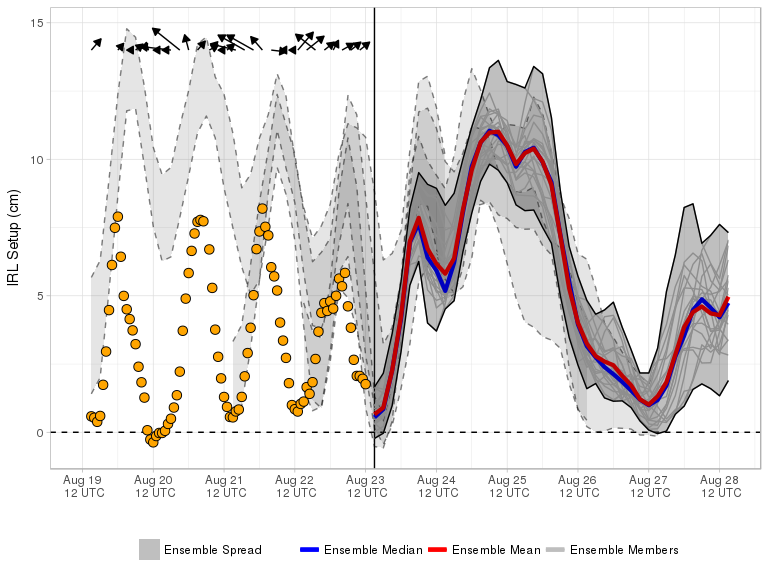
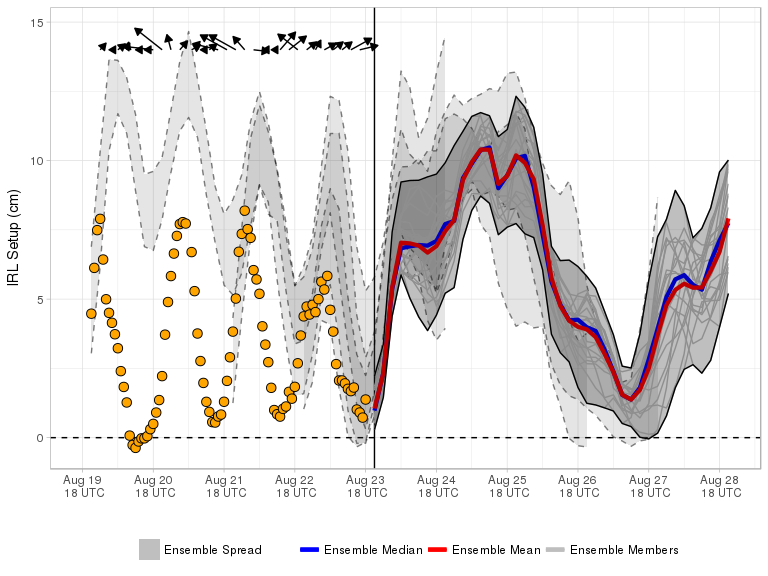
Forecast Update

Changed region(s): [[0.0938, 0.0312, 0.9688, 0.7812], [0.0938, 0.7188, 0.1562, 0.75], [0.0312, 0.5, 0.0625, 0.5312]]

diff --git a/docs/index.md b/docs/index.md
@@ -1,9 +1,9 @@
-Current Forecast 2018-08-23, Cycle 06 UTC
+Current Forecast 2018-08-23, Cycle 12 UTC
 -----------------------------------------
 
 [![](img/raw_setup.png)](https://fit-winds.github.io/IRLSetup/img/raw_setup.png)
 
-> Forecast valid 2018-08-23 08:33:22.
+> Forecast valid 2018-08-23 14:35:12.
 
 Explanation
 -----------
@@ -23,7 +23,7 @@ Ensemble Forecast System
 cycles. Calculation of the IRL setup is performed shortly after a new
 GEFS cycle is made available on the [data access
 link](http://www.ftp.ncep.noaa.gov/data/nccf/com/gens/prod/). The
-current cycle 2018-08-23 06 UTC 0.5° GEFS mean and median forecasts of
+current cycle 2018-08-23 12 UTC 0.5° GEFS mean and median forecasts of
 setup are represented by the red and blue curves, respectively. Ensemble
 spread from the current and three previous GEFS runs are shaded grey and
 bounded by solid and dashed curves, respectively.
